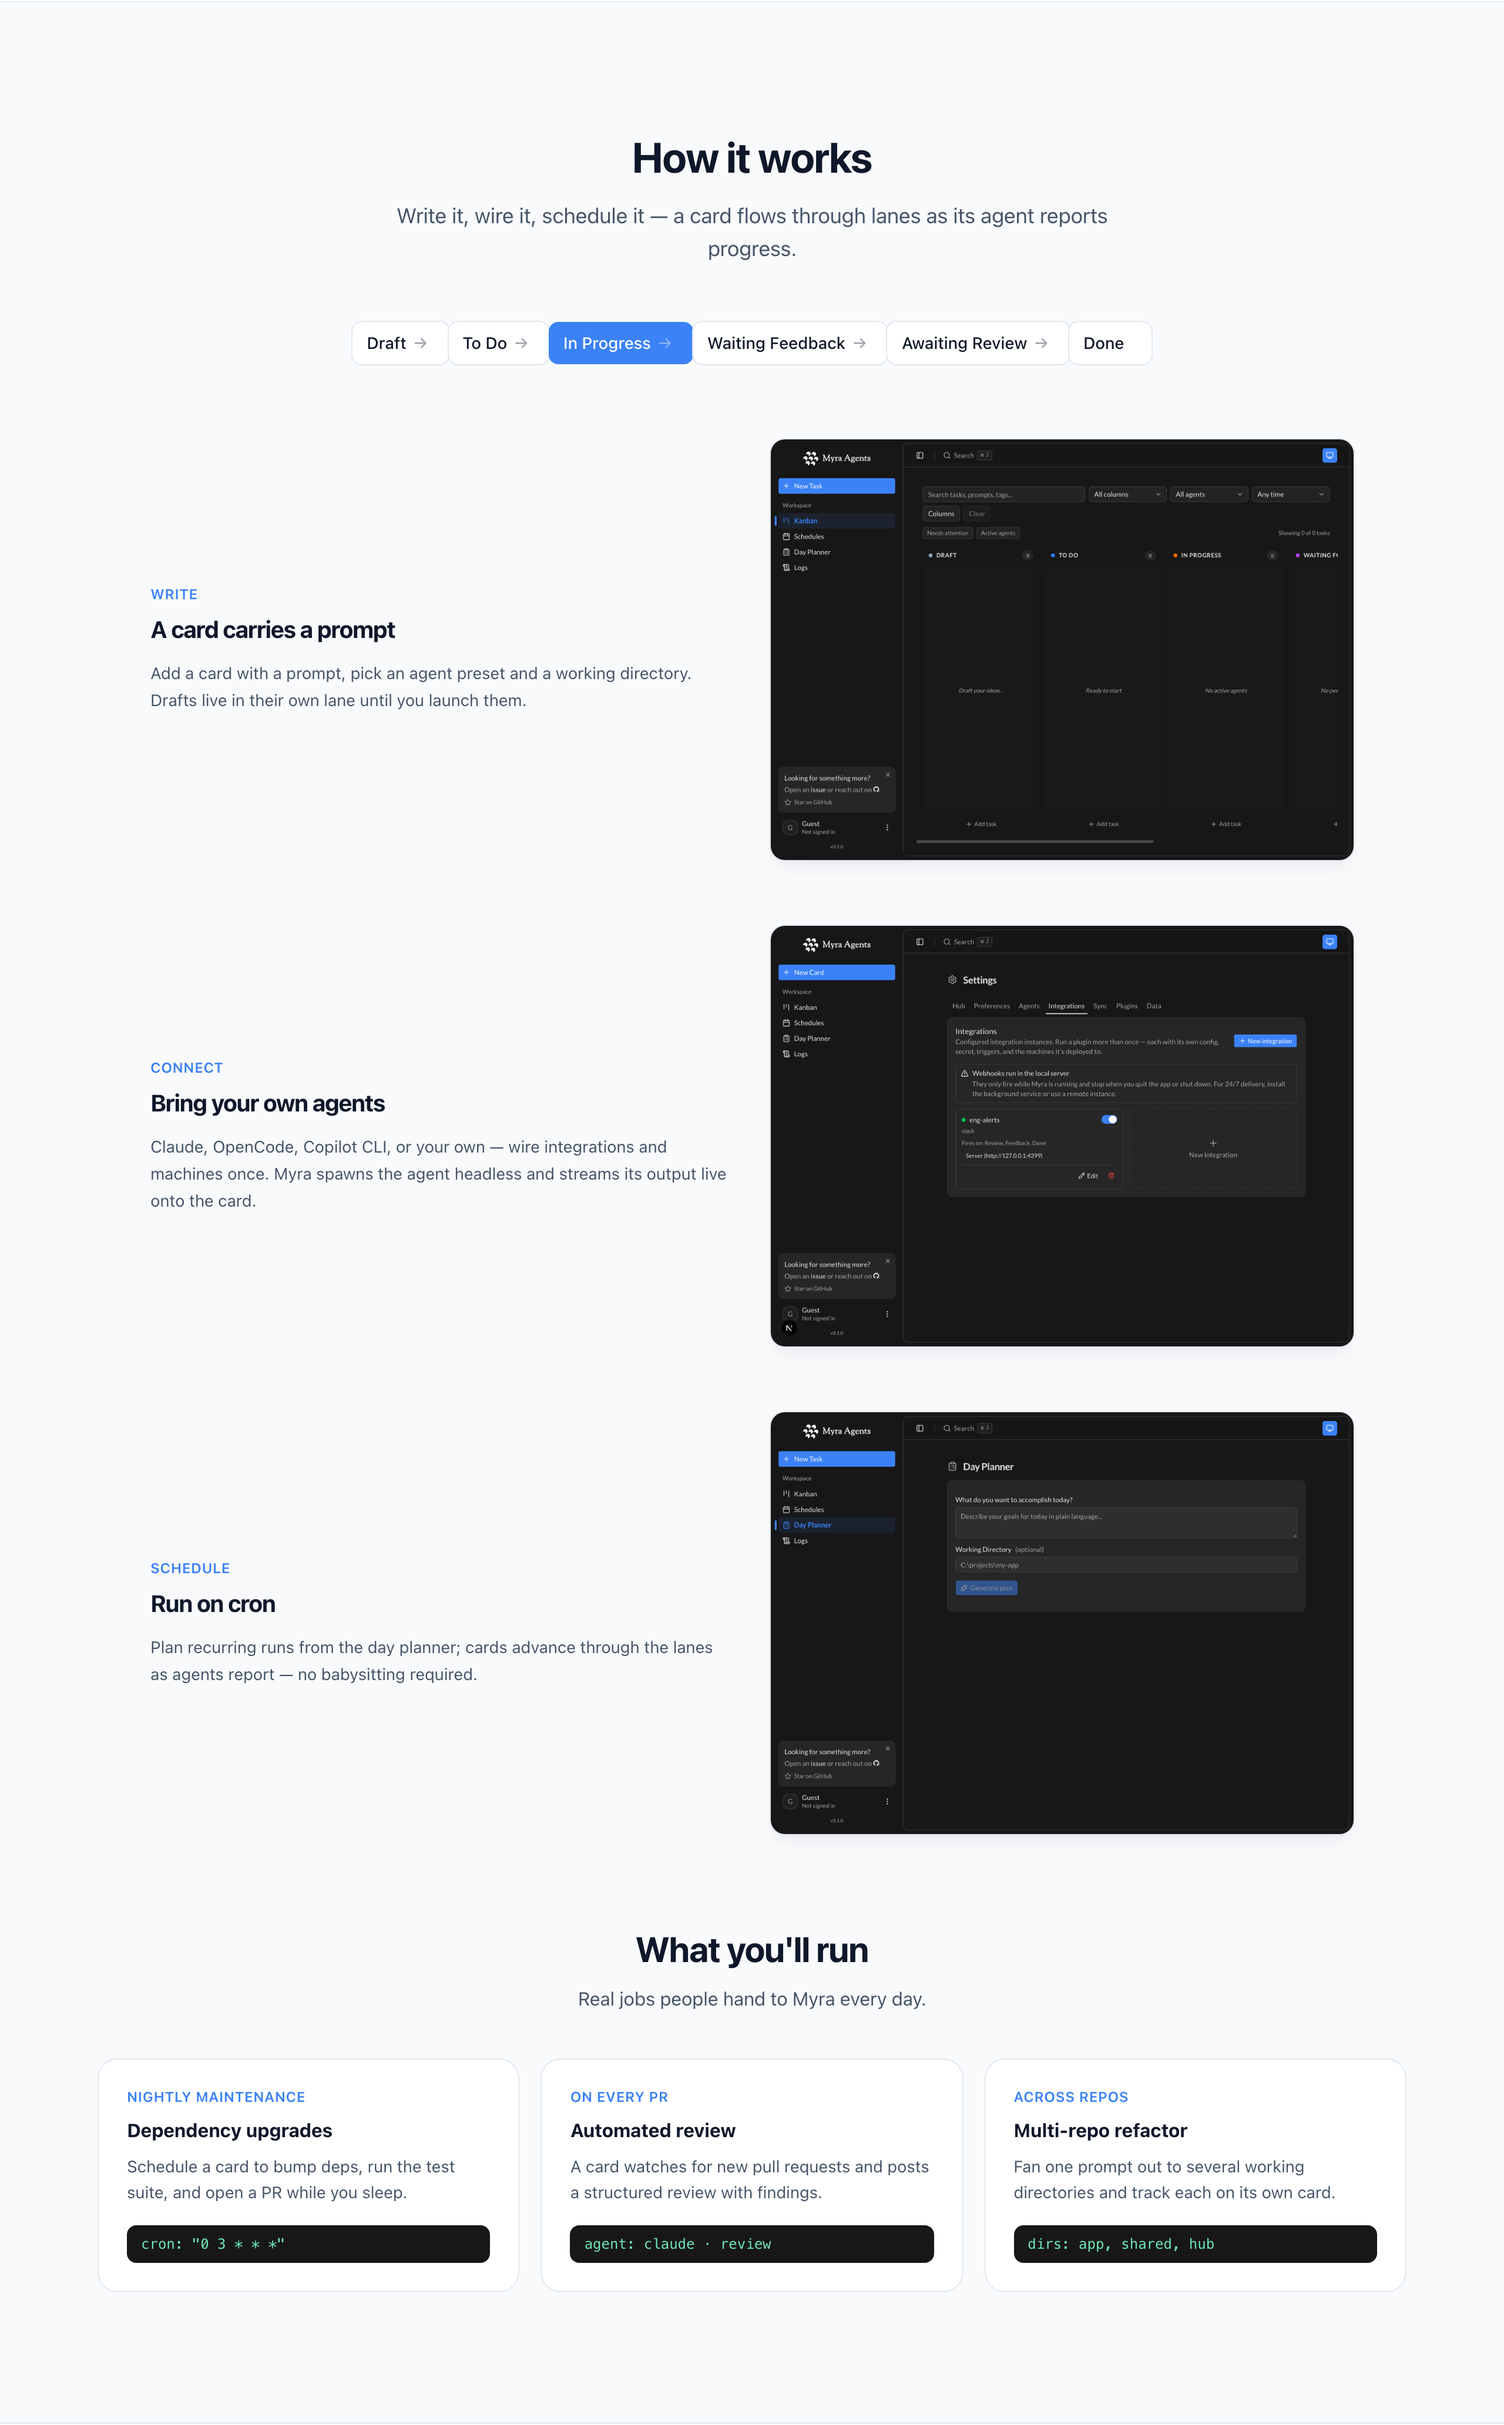
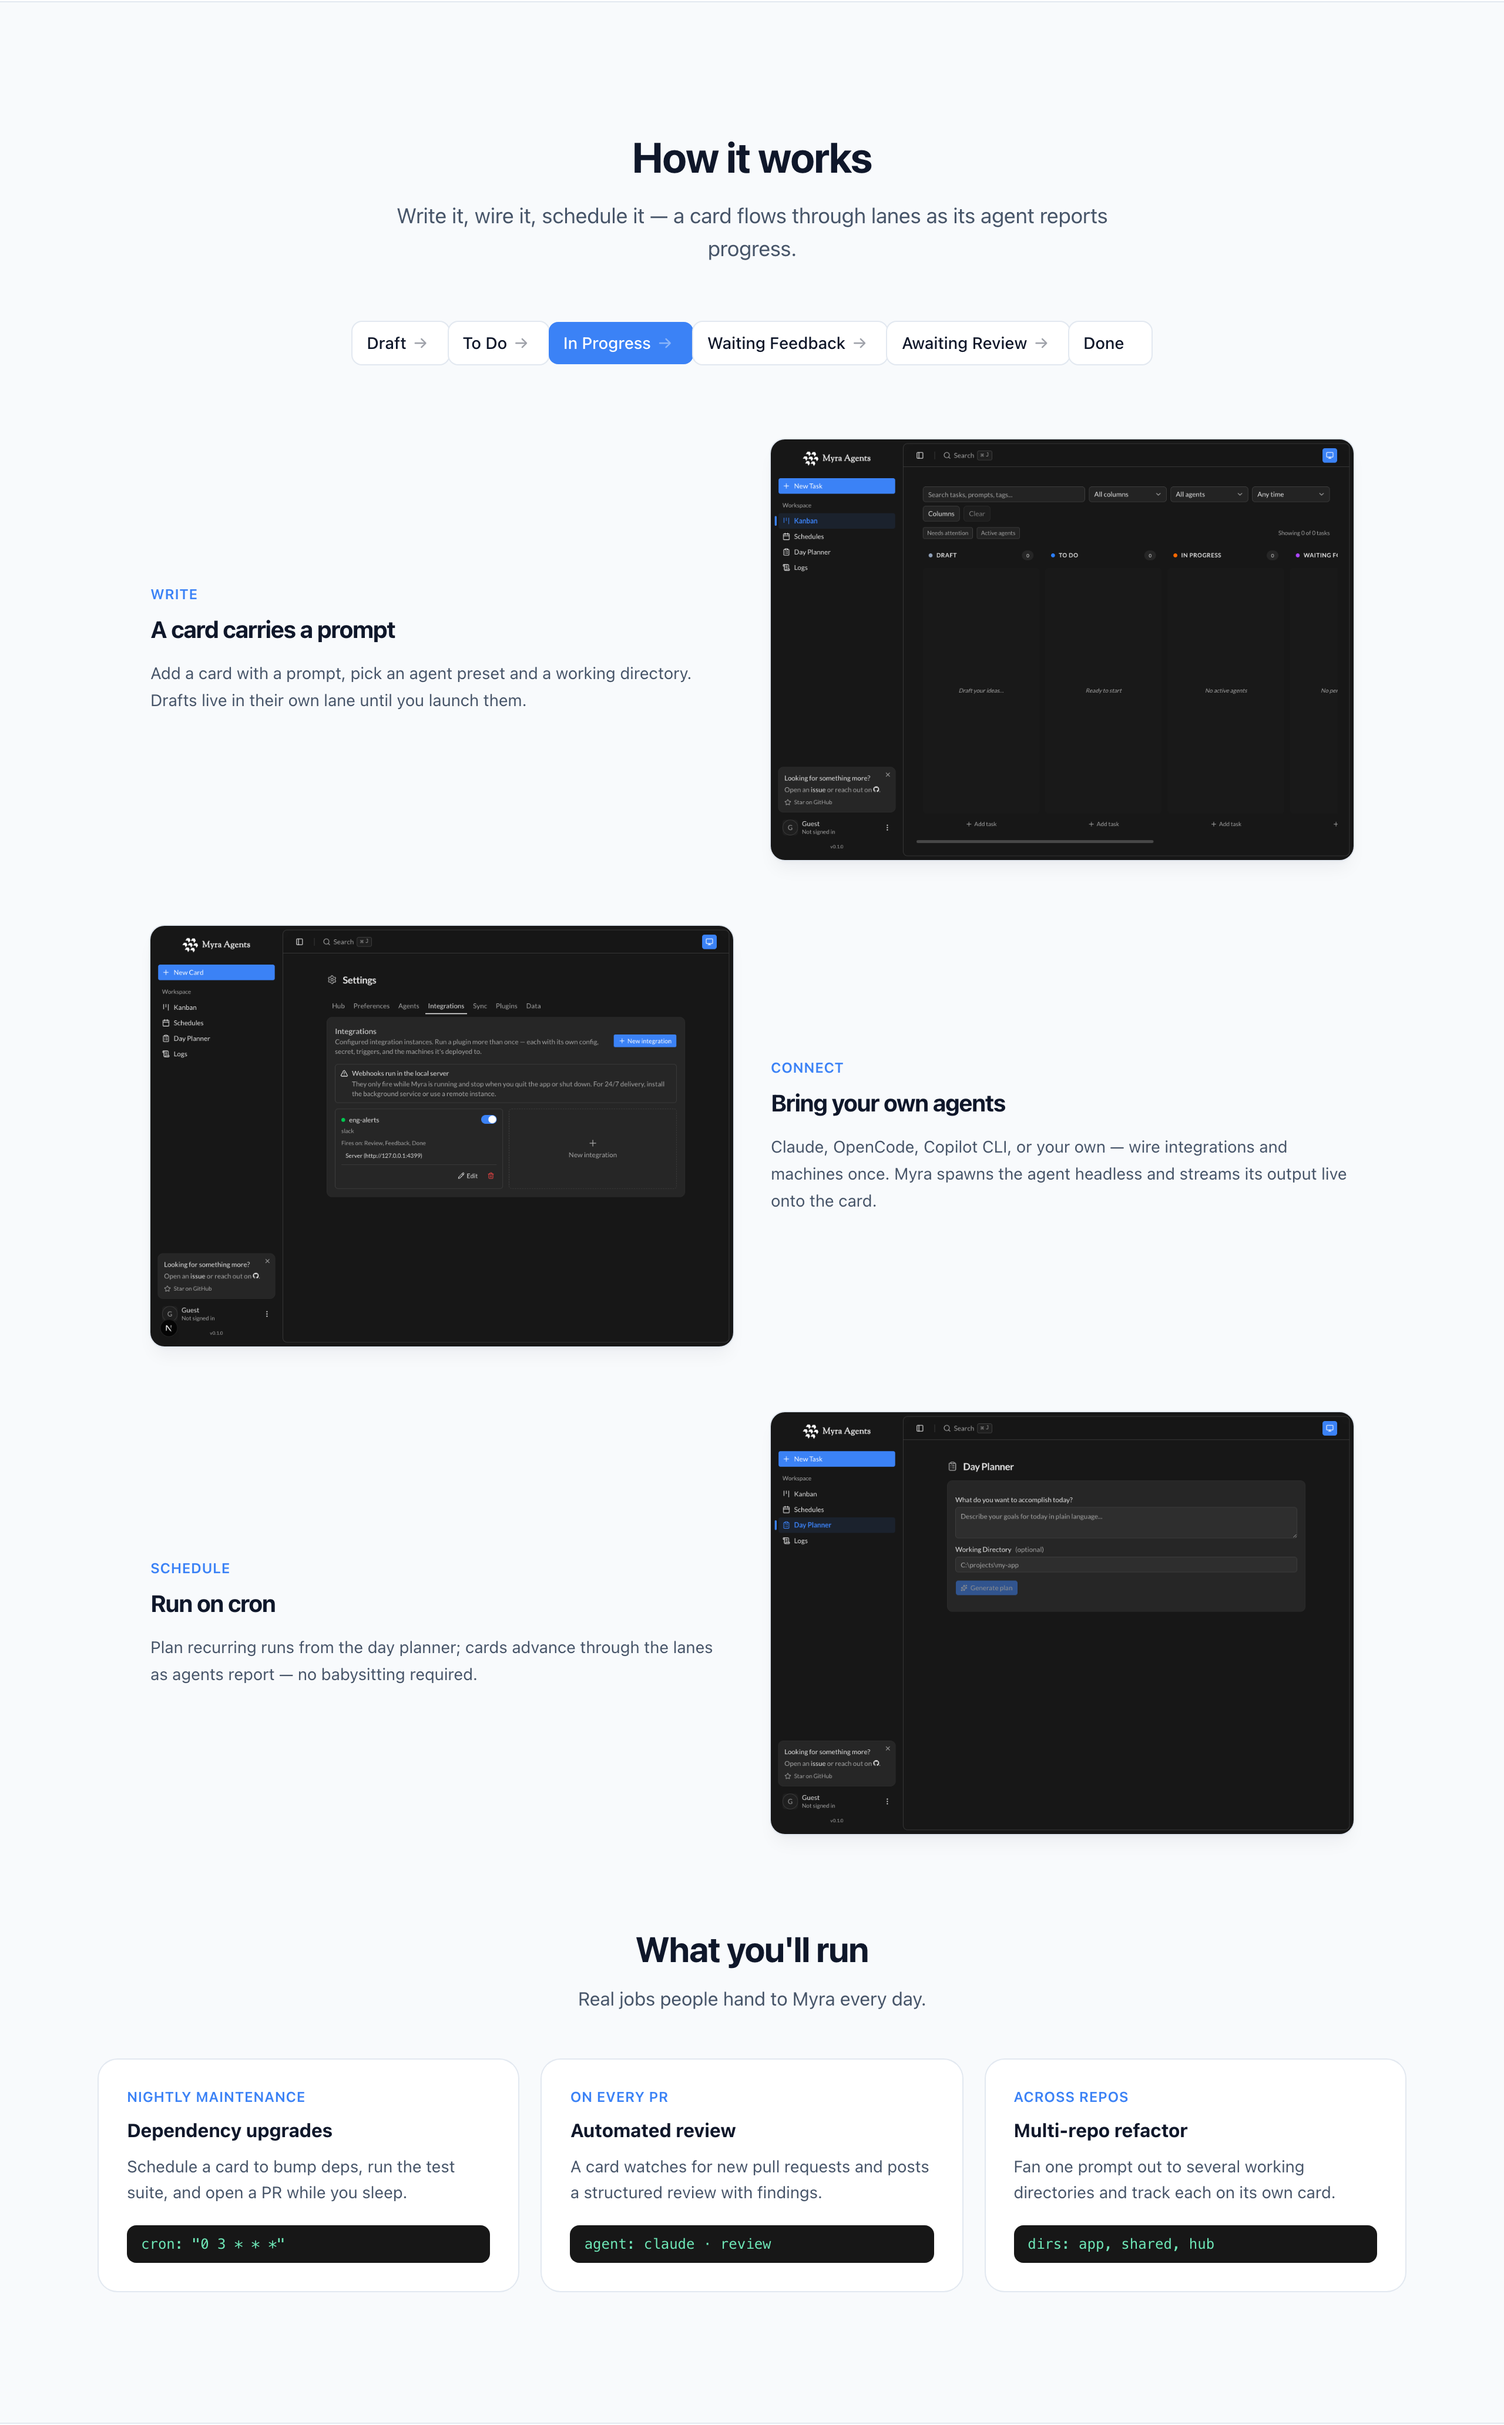
fix(landing): stagger feature rows (quinconce) — alternate image side

Changed region(s): [[0.0938, 0.375, 0.9062, 0.5625]]

diff --git a/index.html b/index.html
@@ -215,13 +215,13 @@
         </div>
 
         <div class="grid items-center gap-8 md:grid-cols-2">
-          <img src="assets/screens/integrations-panel.png" alt="Integrations panel" loading="lazy"
-               class="w-full rounded-xl ring-1 ring-slate-200 shadow-lg shadow-slate-900/5 md:order-2" />
-          <div class="md:order-1">
+          <div class="md:order-2">
             <div class="text-xs font-semibold uppercase tracking-wide text-brand">Connect</div>
             <h3 class="mt-2 text-xl font-bold tracking-tight">Bring your own agents</h3>
             <p class="mt-3 text-sm leading-relaxed text-slate-600">Claude, OpenCode, Copilot CLI, or your own — wire integrations and machines once. Myra spawns the agent headless and streams its output live onto the card.</p>
           </div>
+          <img src="assets/screens/integrations-panel.png" alt="Integrations panel" loading="lazy"
+               class="w-full rounded-xl ring-1 ring-slate-200 shadow-lg shadow-slate-900/5 md:order-1" />
         </div>
 
         <div class="grid items-center gap-8 md:grid-cols-2">
